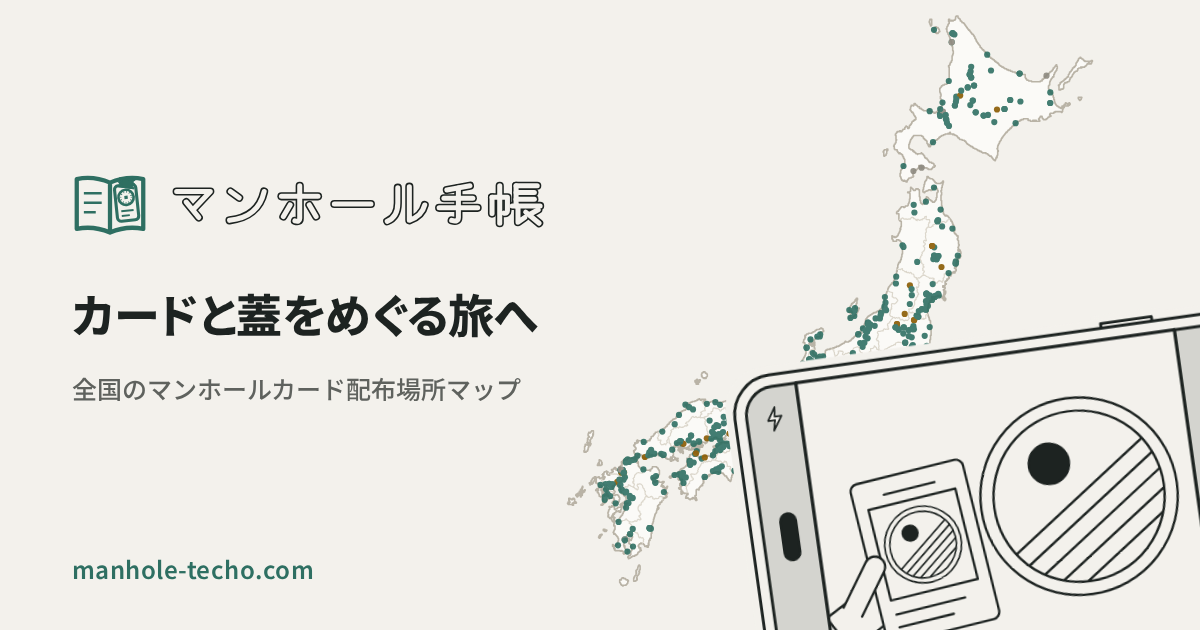
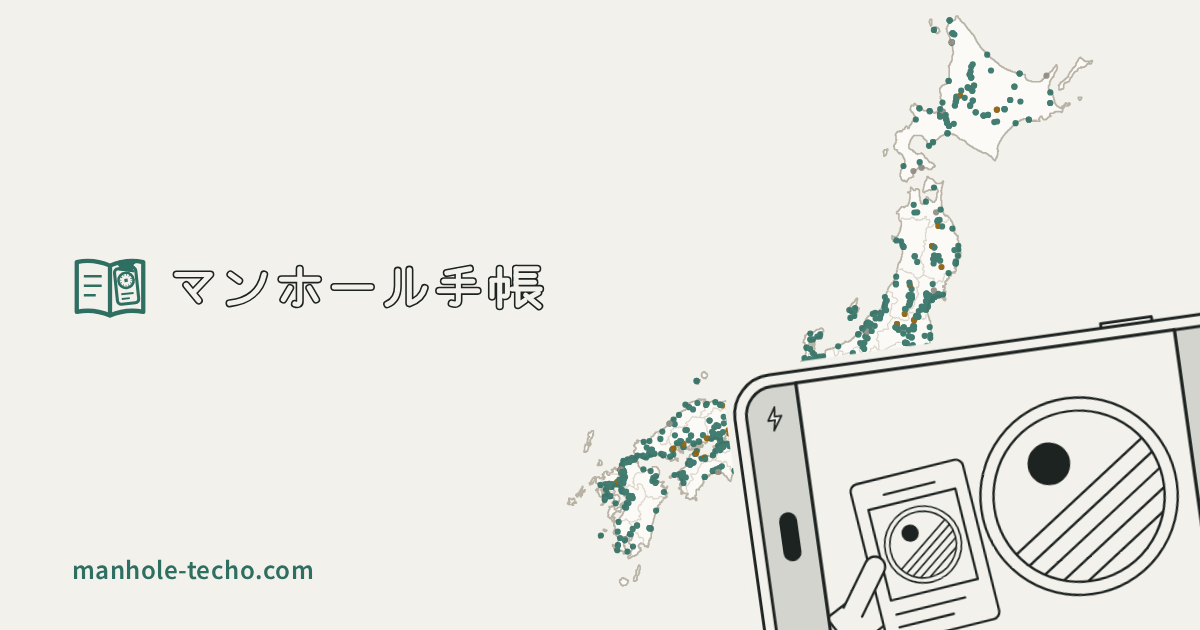
OG画像から旅の見出しと説明文を削除

diff --git a/web/404.html b/web/404.html
@@ -49,7 +49,7 @@
     <meta property="og:image:height" content="630" />
     <meta
       property="og:image:alt"
-      content="マンホール手帳 全国のマンホールカード配布場所マップ"
+      content="マンホール手帳のロゴと、配布場所を示した日本地図"
     />
     <meta name="twitter:card" content="summary_large_image" />
     <link rel="apple-touch-icon" sizes="180x180" href="/apple-touch-icon.png" />

diff --git a/web/about.html b/web/about.html
@@ -48,7 +48,7 @@
     <meta property="og:image:height" content="630" />
     <meta
       property="og:image:alt"
-      content="マンホール手帳 全国のマンホールカード配布場所マップ"
+      content="マンホール手帳のロゴと、配布場所を示した日本地図"
     />
     <meta name="twitter:card" content="summary_large_image" />
     <link rel="apple-touch-icon" sizes="180x180" href="/apple-touch-icon.png" />

diff --git a/web/account.html b/web/account.html
@@ -46,7 +46,7 @@
     <meta property="og:image:height" content="630" />
     <meta
       property="og:image:alt"
-      content="マンホール手帳 全国のマンホールカード配布場所マップ"
+      content="マンホール手帳のロゴと、配布場所を示した日本地図"
     />
     <meta name="twitter:card" content="summary_large_image" />
     <link rel="apple-touch-icon" sizes="180x180" href="/apple-touch-icon.png" />

diff --git a/web/cards.html b/web/cards.html
@@ -48,7 +48,7 @@
     <meta property="og:image:height" content="630" />
     <meta
       property="og:image:alt"
-      content="マンホール手帳 全国のマンホールカード配布場所マップ"
+      content="マンホール手帳のロゴと、配布場所を示した日本地図"
     />
     <meta name="twitter:card" content="summary_large_image" />
     <link rel="apple-touch-icon" sizes="180x180" href="/apple-touch-icon.png" />

diff --git a/web/index.html b/web/index.html
@@ -49,7 +49,7 @@
     <meta property="og:image:height" content="630" />
     <meta
       property="og:image:alt"
-      content="マンホール手帳 全国のマンホールカード配布場所マップ"
+      content="マンホール手帳のロゴと、配布場所を示した日本地図"
     />
     <meta name="twitter:card" content="summary_large_image" />
     <link rel="apple-touch-icon" sizes="180x180" href="/apple-touch-icon.png" />

diff --git a/web/terms.html b/web/terms.html
@@ -45,7 +45,7 @@
     <meta property="og:image:height" content="630" />
     <meta
       property="og:image:alt"
-      content="マンホール手帳 全国のマンホールカード配布場所マップ"
+      content="マンホール手帳のロゴと、配布場所を示した日本地図"
     />
     <meta name="twitter:card" content="summary_large_image" />
     <link rel="apple-touch-icon" sizes="180x180" href="/apple-touch-icon.png" />
